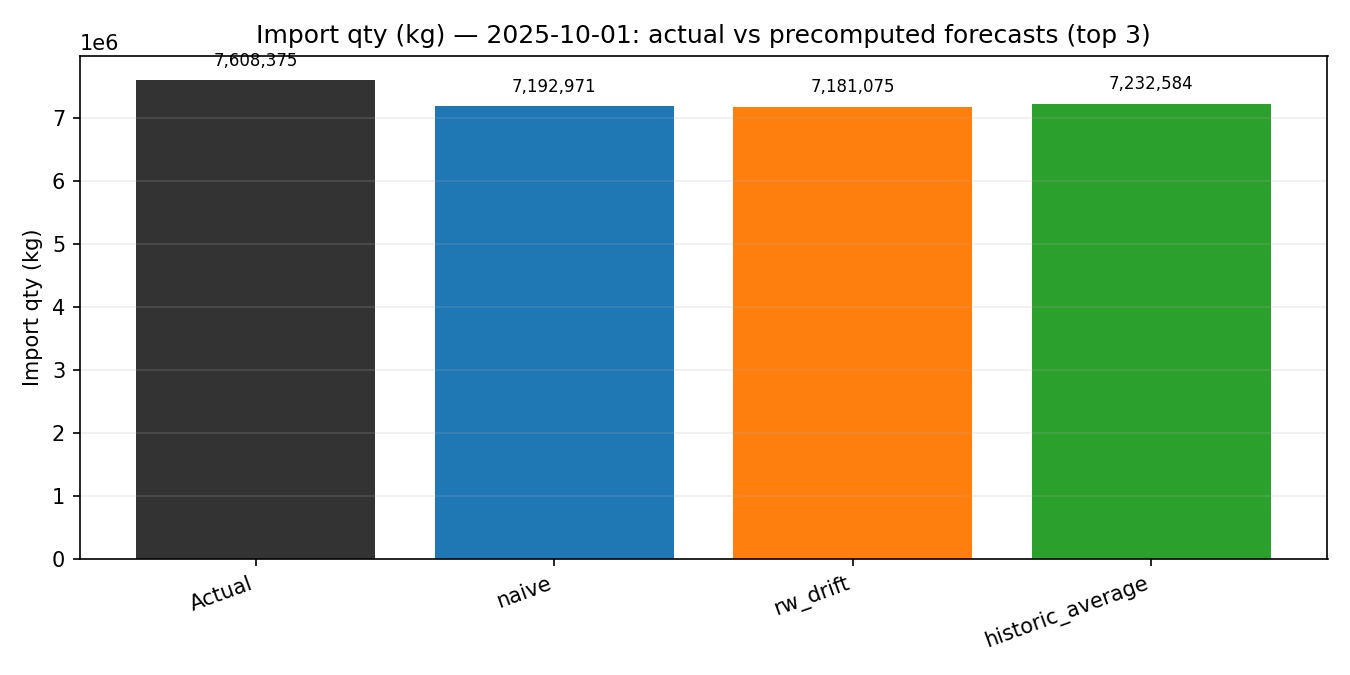
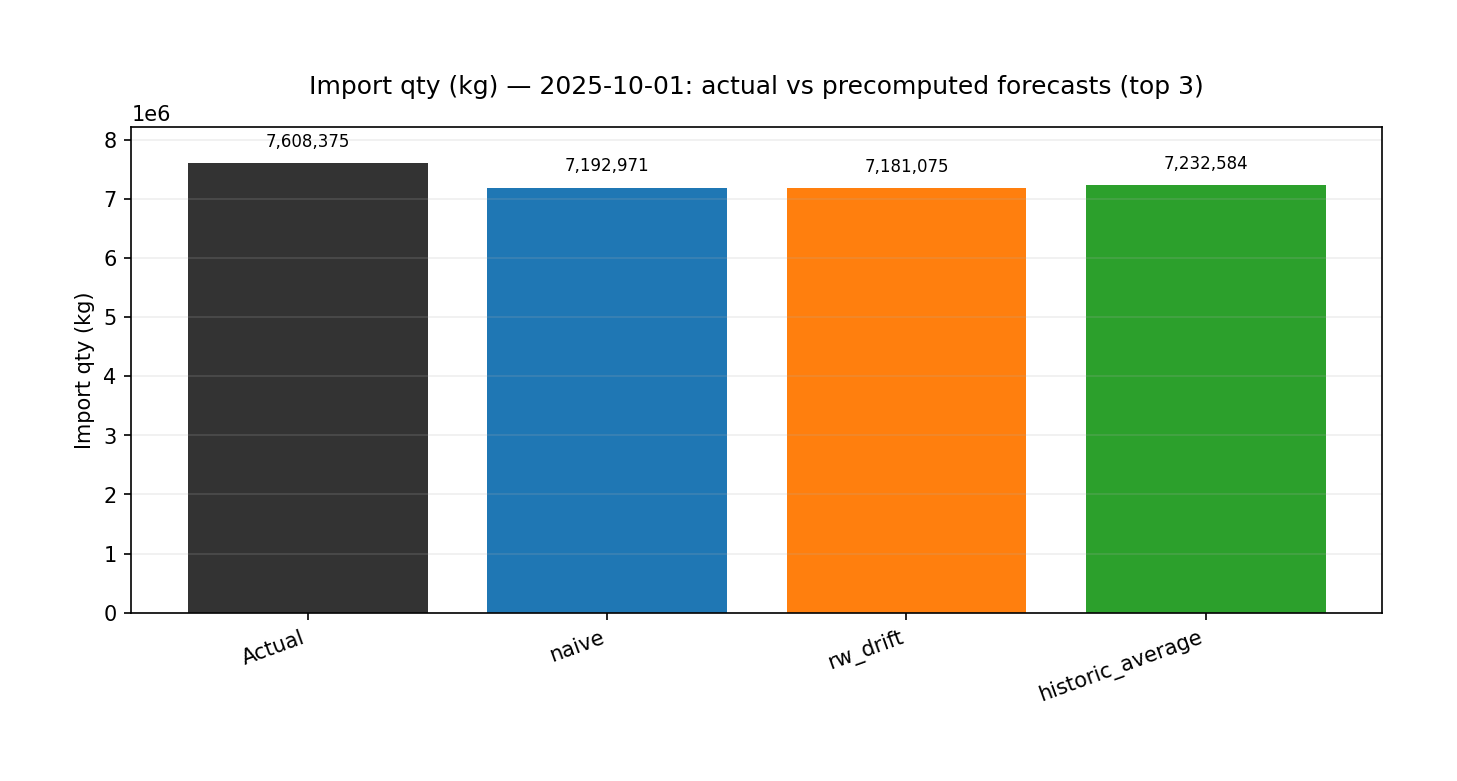
added visualisations

diff --git a/src/visualize_new_actual_vs_forecasts_october.py b/src/visualize_new_actual_vs_forecasts_october.py
@@ -110,25 +110,34 @@ def plot_feature_bars(
 
     ax.set_xticks(x)
     ax.set_xticklabels(labels, rotation=20, ha="right")
-    ax.set_title(f"{label} — {date_str}: actual vs precomputed forecasts (top 3)")
+    ax.set_title(
+        f"{label} — {date_str}: actual vs precomputed forecasts (top 3)", pad=16
+    )
     ax.set_ylabel(label)
     ax.grid(axis="y", alpha=0.2)
 
+    # Keep proportions, but add a little headroom so labels don't hit the title.
+    ax.margins(y=0.08)
+
     # annotate values for quick read
     for xi, v in zip(x, values):
+        yoff = 6 if v >= 0 else -6
+        va = "bottom" if v >= 0 else "top"
         ax.annotate(
             f"{v:,.0f}",
             (float(xi), float(v)),
-            xytext=(0, 5),
+            xytext=(0, yoff),
             textcoords="offset points",
             ha="center",
-            va="bottom",
+            va=va,
             fontsize=8,
+            clip_on=False,
         )
 
-    fig.tight_layout()
+    # Keep axis scaling, but ensure the exported image includes annotation extents.
+    fig.tight_layout(pad=1.0)
     out_path.parent.mkdir(parents=True, exist_ok=True)
-    fig.savefig(out_path, dpi=150)
+    fig.savefig(out_path, dpi=150, bbox_inches="tight", pad_inches=0.5)
     plt.close(fig)
 
 
